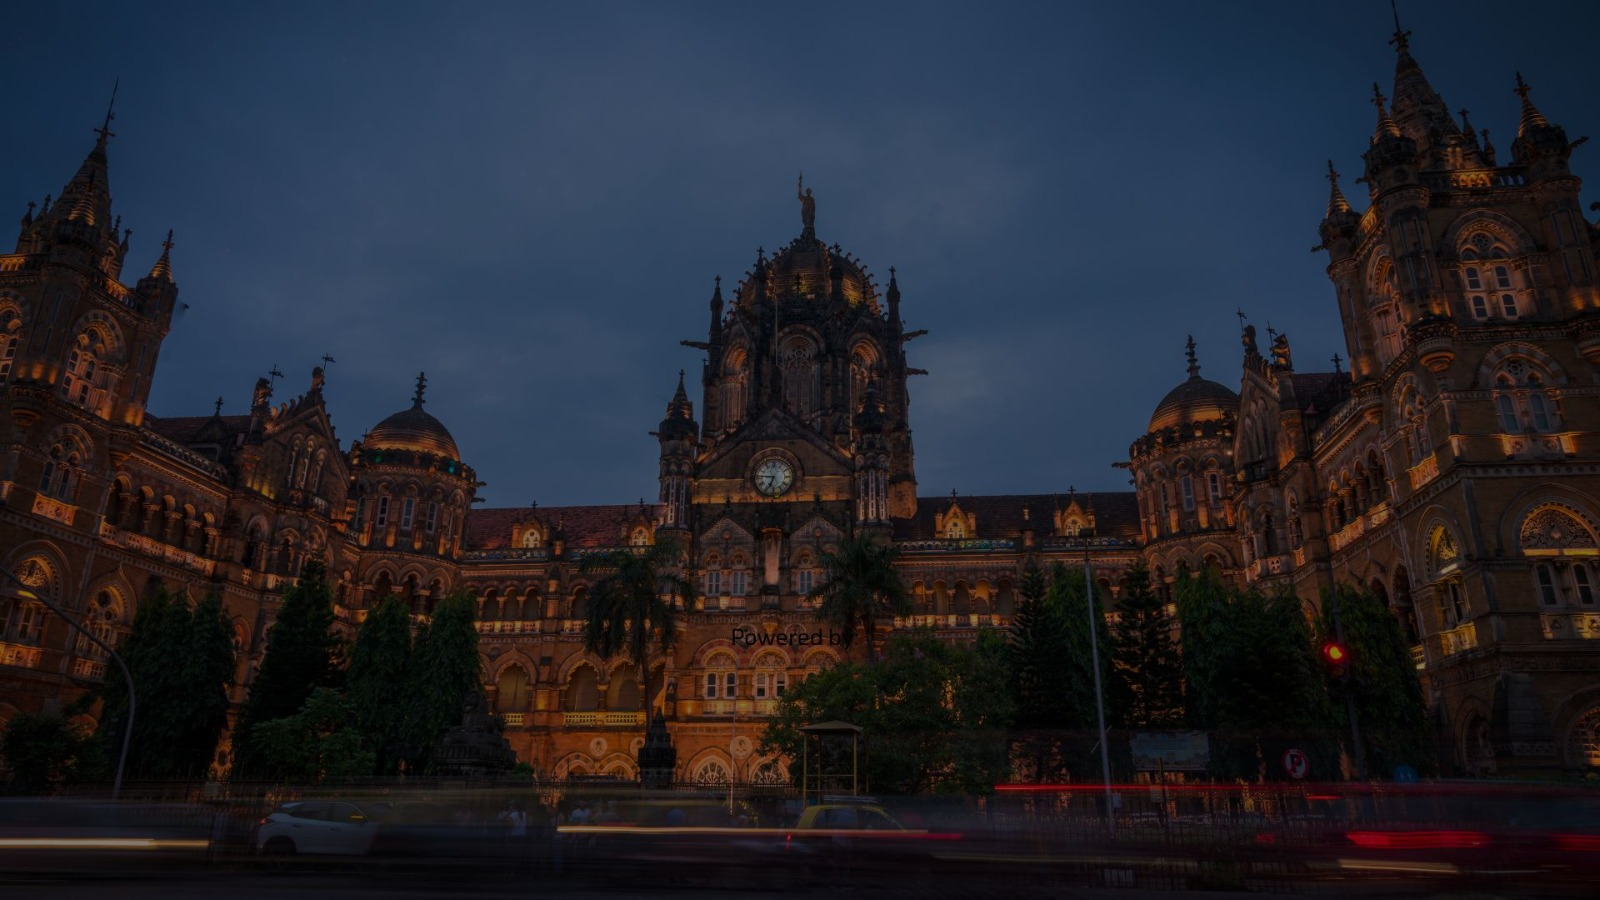
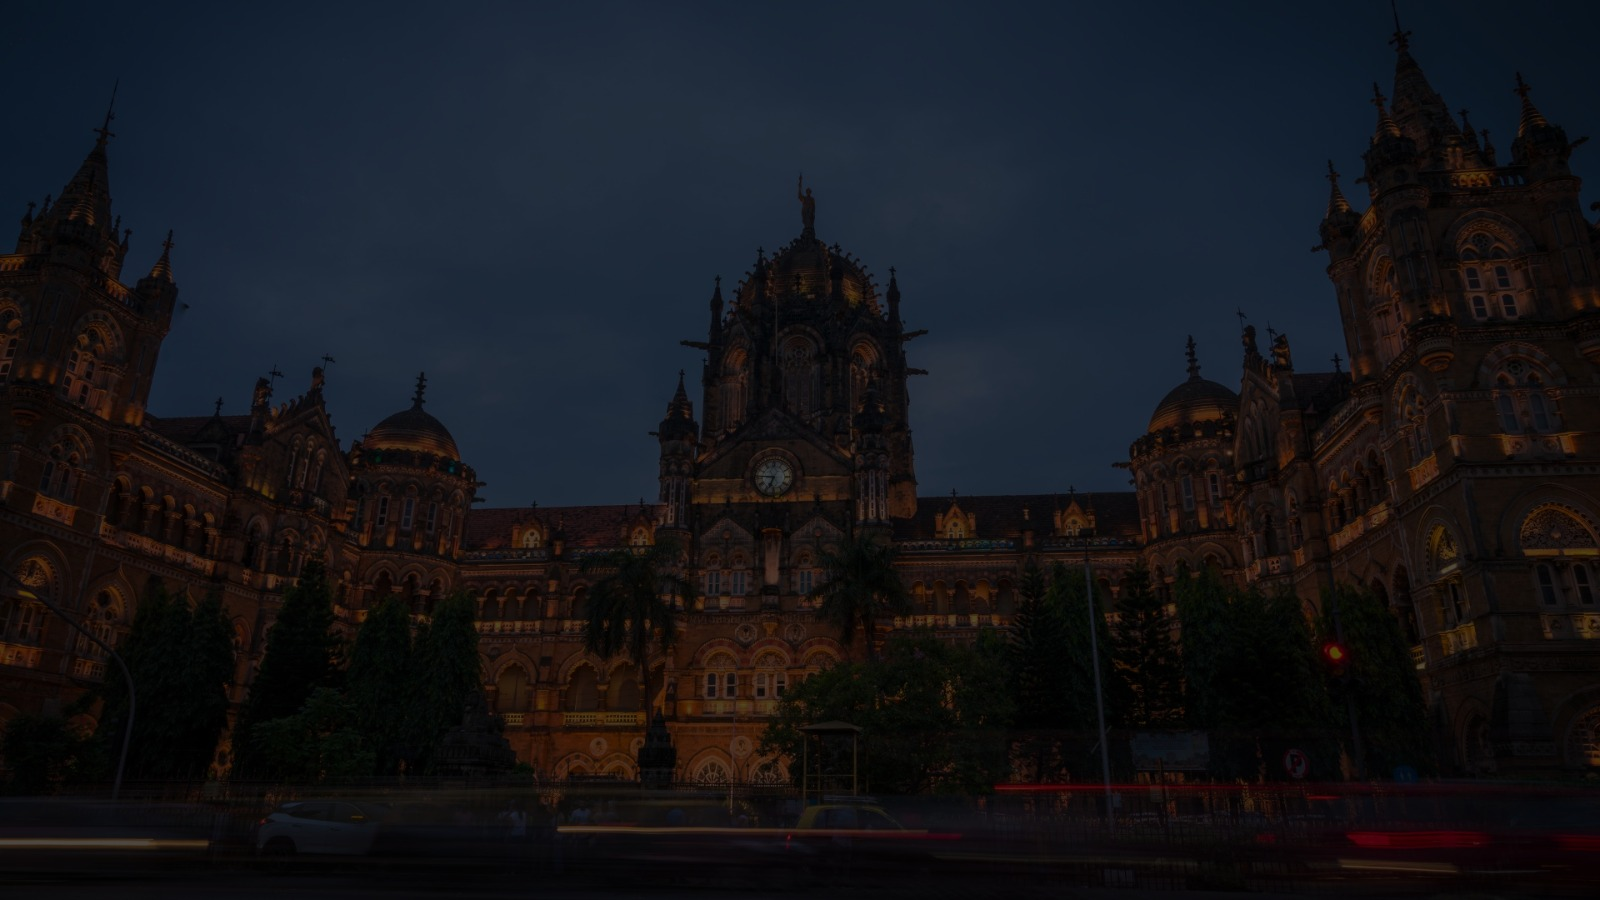
final changes

diff --git a/components/ui/images-slider.tsx b/components/ui/images-slider.tsx
@@ -1,0 +1,151 @@
+"use client";
+import { cn } from "@/lib/utils";
+import { motion, AnimatePresence } from "framer-motion";
+import React, { useEffect, useState } from "react";
+
+export const ImagesSlider = ({
+  images,
+  children,
+  overlay = true,
+  overlayClassName,
+  className,
+  autoplay = true,
+  direction = "up",
+}: {
+  images: string[];
+  children: React.ReactNode;
+  overlay?: React.ReactNode;
+  overlayClassName?: string;
+  className?: string;
+  autoplay?: boolean;
+  direction?: "up" | "down";
+}) => {
+  const [currentIndex, setCurrentIndex] = useState(0);
+  const [loading, setLoading] = useState(false);
+  const [loadedImages, setLoadedImages] = useState<string[]>([]);
+
+  const handleNext = () => {
+    setCurrentIndex((prevIndex) =>
+      prevIndex + 1 === images.length ? 0 : prevIndex + 1
+    );
+  };
+
+  const handlePrevious = () => {
+    setCurrentIndex((prevIndex) =>
+      prevIndex - 1 < 0 ? images.length - 1 : prevIndex - 1
+    );
+  };
+
+  useEffect(() => {
+    loadImages();
+  }, []);
+
+  const loadImages = () => {
+    setLoading(true);
+    const loadPromises = images.map((image) => {
+      return new Promise((resolve, reject) => {
+        const img = new Image();
+        img.src = image;
+        img.onload = () => resolve(image);
+        img.onerror = reject;
+      });
+    });
+
+    Promise.all(loadPromises)
+      .then((loadedImages) => {
+        setLoadedImages(loadedImages as string[]);
+        setLoading(false);
+      })
+      .catch((error) => console.error("Failed to load images", error));
+  };
+  useEffect(() => {
+    const handleKeyDown = (event: KeyboardEvent) => {
+      if (event.key === "ArrowRight") {
+        handleNext();
+      } else if (event.key === "ArrowLeft") {
+        handlePrevious();
+      }
+    };
+
+    window.addEventListener("keydown", handleKeyDown);
+
+    // autoplay
+    let interval: any;
+    if (autoplay) {
+      interval = setInterval(() => {
+        handleNext();
+      }, 5000);
+    }
+
+    return () => {
+      window.removeEventListener("keydown", handleKeyDown);
+      clearInterval(interval);
+    };
+  }, []);
+
+  const slideVariants = {
+    initial: {
+      scale: 0,
+      opacity: 0,
+      rotateX: 45,
+    },
+    visible: {
+      scale: 1,
+      rotateX: 0,
+      opacity: 1,
+      transition: {
+        duration: 0.5,
+        ease: [0.645, 0.045, 0.355, 1.0],
+      },
+    },
+    upExit: {
+      opacity: 1,
+      y: "-150%",
+      transition: {
+        duration: 1,
+      },
+    },
+    downExit: {
+      opacity: 1,
+      y: "150%",
+      transition: {
+        duration: 1,
+      },
+    },
+  };
+
+  const areImagesLoaded = loadedImages.length > 0;
+
+  return (
+    <div
+      className={cn(
+        "overflow-hidden h-full w-full relative flex items-center justify-center",
+        className
+      )}
+      style={{
+        perspective: "1000px",
+      }}
+    >
+      {areImagesLoaded && children}
+      {areImagesLoaded && overlay && (
+        <div
+          className={cn("absolute inset-0 bg-black/10 z-40", overlayClassName)}
+        />
+      )}
+
+      {areImagesLoaded && (
+        <AnimatePresence>
+          <motion.img
+            key={currentIndex}
+            src={loadedImages[currentIndex]}
+            initial="initial"
+            animate="visible"
+            exit={direction === "up" ? "upExit" : "downExit"}
+            variants={slideVariants}
+            className="image h-full w-full absolute inset-0 object-cover object-center"
+          />
+        </AnimatePresence>
+      )}
+    </div>
+  );
+};

diff --git a/components/Footer/Footer.tsx b/components/Footer/Footer.tsx
@@ -6,8 +6,8 @@ import MailOutlineIcon from '@mui/icons-material/MailOutline';
 
 export default function Footer() {
     return (
-        <footer className="flex flex-col  border  border-white  items-center justify-between  bg-gray-800 text-white text-center">
-            <div className='flex sm:flex-row flex-col items-start justify-between gap-4 p-7 bg-gray-800 text-white text-center'>
+        <footer className="flex flex-col  border  border-white  items-center justify-between  bg-sky-800 text-white text-center">
+            <div className='flex sm:flex-row flex-col items-start justify-between gap-4 p-7 bg-sky-400 text-black text-center'>
                 <div className='w-full sm:w-1/4 flex items-center justify-start flex-col gap-3'>
                     <Link href={'https://djsceietesf.wordpress.com/'} target='blank'><h1 className='text-xl font-semibold'>DJS IETE-ISF</h1></Link>
                     <p>The IETE Students’ Forum of D. J. Sanghvi College of Engineering</p>
@@ -30,22 +30,22 @@ export default function Footer() {
                 <div className='w-full sm:w-fit flex items-center justify-start flex-col gap-4'>
                     <h1 className='text-xl font-semibold'>Follow us on</h1>
                     <div className="flex items-center justify-center gap-3">
-                        <Link href="https://www.instagram.com/djsce_iete/" className='p-3 hover:scale-110 border-2 border-white rounded-full hover:bg-slate-900 transition-all' target="_blank" rel
+                        <Link href="https://www.instagram.com/djsce_iete/" className='p-3 hover:scale-110 border-2 border-black rounded-full hover:bg-slate-200 transition-all' target="_blank" rel
                             ="noopener noreferrer">
                             <InstagramIcon />
                         </Link>
                         <Link href="https://www.linkedin.com/company/djsce-iete/posts/?feedView=all" target="_blank" rel
-                            ="noopener noreferrer" className='p-3 hover:scale-110 border-2 border-white rounded-full hover:bg-slate-900 transition-all'>
+                            ="noopener noreferrer" className='p-3 hover:scale-110 border-2 border-black rounded-full hover:bg-slate-200 transition-all'>
                             <LinkedInIcon />
                         </Link>
                         <a href="mailto:djsceiete2024@gmail.com" target="_blank" rel
-                            ="noopener noreferrer" className='p-3 border-2 hover:scale-110 border-white rounded-full hover:bg-slate-900 transition-all'>
+                            ="noopener noreferrer" className='p-3 border-2 hover:scale-110 border-black rounded-full hover:bg-slate-200 transition-all'>
                             <MailOutlineIcon />
                         </a>
                     </div>
                 </div>
             </div>
-            <div className='p-3'>Made with ❤ by DJS IETE</div>
+            <div className='p-3 text-black'>Made with ❤ by DJS IETE</div>
         </footer>
     )
 };

diff --git a/components/Navbar/Navbar.tsx b/components/Navbar/Navbar.tsx
@@ -9,7 +9,7 @@ function Navbar() {
     const [isOpen, setIsOpen] = useState(false);
     return (
         <nav>
-            <div className='sm:w-full sm:px-10 hidden  sm:fixed sm:z-10 sm: bg-black sm:bg-opacity-50  sm:text-white sm:flex sm:items-center sm:justify-between '>
+            <div className='sm:w-full sm:px-10 hidden  sm:fixed sm:z-50 sm: bg-black sm:bg-opacity-50  sm:text-white sm:flex sm:items-center sm:justify-between '>
                 <div>
                     <a href={'https://djsceietesf.wordpress.com'}
                         target='_blank' rel='noopener noreferrer'
@@ -18,12 +18,12 @@ function Navbar() {
                     </a>
                 </div>
                 <div className='flex items-center j ustify-center gap-6'>
-                    <a href='#timeline' className='text-lg font-semibold'>Timeline</a>
-                    <a href='#prizepool' className='text-lg font-semibold'>Prizepool</a>
-                    <a href='#faq' className='text-lg font-semibold'>FAQs</a>
-                    <a href='#contact' className='text-lg font-semibold'>Contact Us</a>
-                    <a href='https://djsceietesf.wordpress.com' className='text-lg font-semibold'>About Us</a>
-                    <a href='#' className='text-lg font-bold'>Projects</a>
+                    <a href='#timeline' className='text-lg font-semibold hover:text-sky-400 hover:translate-x-2 transition-all'>Timeline</a>
+                    <a href='#prizepool' className='text-lg font-semibold hover:text-sky-400 hover:translate-x-2 transition-all'>Prizepool</a>
+                    <a href='#faq' className='text-lg font-semibold hover:text-sky-400 hover:translate-x-2 transition-all'>FAQs</a>
+                    <a href='#contact' className='text-lg font-semibold hover:text-sky-400 hover:translate-x-2 transition-all'>Contact Us</a>
+                    <a href='https://djsceietesf.wordpress.com' className='text-lg font-semibold hover:text-sky-400 hover:translate-x-2 transition-all'>About Us</a>
+                    <a href='#' className='text-lg font-bold hover:text-sky-400 hover:translate-x-2 transition-all'>Projects</a>
                 </div>
             </div>
             <div>

diff --git a/components/Hero/Hero.tsx b/components/Hero/Hero.tsx
@@ -1,23 +1,35 @@
+'use client';
+
 import RegisterBtn from '../RegsterBtn/RegisterBtn'
 import './heroStyle.css'
 import BoxReveal from '@/components/ui/box-reveal'
 import '../../app/globals.css'
+import { ImagesSlider } from '../ui/images-slider'
 
 export default function Hero() {
-    return (
-        <div className="flex items-center justify-center flex-col gap-6 heroBg w-full h-screen bg-black" >
-            <BoxReveal duration={0.5} boxColor='#5046e6'>
-                <img alt="logo" className="oscillatey scale-50 h-[150px]" src="UNPLUGGED.png" />
-            </BoxReveal>
-            <BoxReveal duration={0.7} boxColor='#5046e6'>
 
-            <div className="text-xl text-center text-white">
-                A 24-Hour Hardware Hackathon for tech enthusiasts across the country.
+    const images = [
+        "/heroBg.jpg",
+        "/timelinebg3.jpg",
+        "/heroBg3.jpg",
+    ]
+    return (
+        <ImagesSlider images={images} className='h-screen'>
+            <div className="flex items-center justify-center flex-col gap-6 z-50 w-full h-screen " >
+                <BoxReveal duration={0.5} boxColor='#5046e6'>
+                    <img alt="logo" className="oscillatey scale-50 h-[150px]" src="UNPLUGGED.png" />
+                </BoxReveal>
+                <BoxReveal duration={0.7} boxColor='#5046e6'>
+
+                    <div className="text-xl text-center text-white font-semibold">
+                        A 24-Hour Hardware Hackathon for tech enthusiasts across the country.
+                    </div>
+                </BoxReveal>
+                <BoxReveal duration={0.9} boxColor='#5046e6'>
+                    <RegisterBtn />
+                </BoxReveal>
             </div>
-            </BoxReveal>
-            <BoxReveal duration={0.9} boxColor='#5046e6'>
-                <RegisterBtn />
-            </BoxReveal>
-        </div>
+
+        </ImagesSlider>
     )
 }

diff --git a/components/ui/timeline.tsx b/components/ui/timeline.tsx
@@ -62,6 +62,12 @@ export const Timeline = ({ data }: { data: TimelineEntry[] }) => {
                 src={item.title}
                 alt="image"
               />
+              {/* <h1
+                className="hidden md:block text-3xl md:pl-20 -z-20 font-bold text-black dark:text-neutral-500 "
+
+              >
+                {item.title}
+              </h1> */}
                 
               
             </div>

diff --git a/app/page.tsx b/app/page.tsx
@@ -15,7 +15,7 @@ import Sponsors from '@/components/sponsors/Sponsors'
 export default function Home() {
 
   return (
-    <div className=' bg-black'>
+    <div className=' bg-black '>
       <Navbar />
      <Hero/>
       <Sponsors />

diff --git a/app/globals.css b/app/globals.css
@@ -12,6 +12,7 @@ body {
 
 .prizepoolBg{
   background-image: url('/timelinebg2.jpg');
+  
   backdrop-filter: blur(50px);
 
 }
